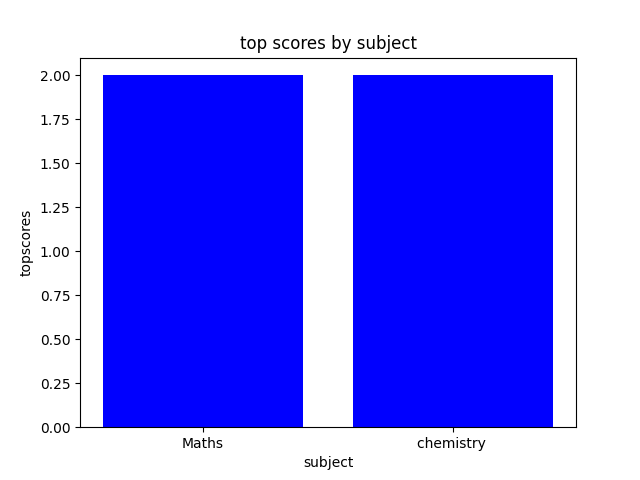
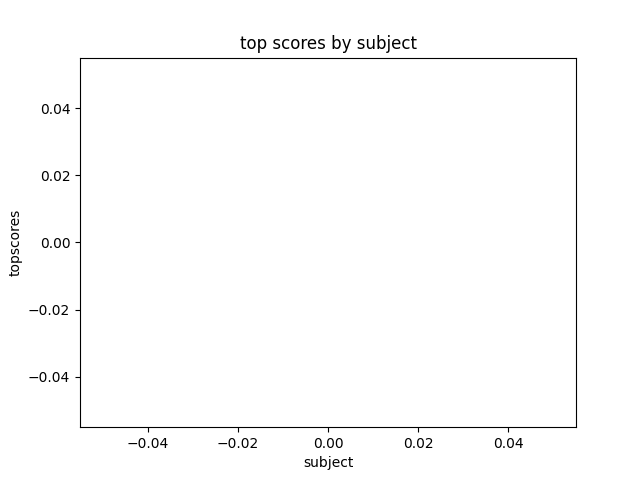
implemented full CRUD api for subject

diff --git a/templates/admin_dashbord.html b/templates/admin_dashbord.html
@@ -18,7 +18,7 @@
           <div class="collapse navbar-collapse" id="navbarNavAltMarkup">
             <div class="navbar-nav">
               <a class="nav-link active" aria-current="page" href="{{url_for('admin')}}">Home</a>
-              <a class="nav-link" href="{{url_for('get_quizzes')}}">Quiz</a>
+              <a class="nav-link" href="{{url_for('getquizzes')}}">Quiz</a>
               <a class="nav-link" href="{{url_for('summaryadmin')}}">Summary</a>
               <a class="nav-link" href="{{url_for('login')}}">logout</a>
               <a class="nav-link" href="{{url_for('get_subjects')}}">subjects</a>
@@ -39,7 +39,7 @@
   <div class="row">
     {% if subjects %}
       {% for subject in subjects %}
-        <div class="col-md-6 col-lg-4 mb-4">
+        <div class="col-md-6 col-lg-6 mb-4">
           <div class="card">
             <div class="card-body">
               <h5 class="text-center">
@@ -58,7 +58,7 @@
                   <thead>
                     <tr>
                       <th>Chapter</th>
-                      <th>No. of Questions</th>
+                      <th>No. of Quiz</th>
                       <th>Actions</th>
                     </tr>
                   </thead>
@@ -69,12 +69,12 @@
                       
                       <td>
                         
-                        <a href="{{ url_for('quizmanagement', chapter_id=chapter.id) }}">
+                        <a href="{{ url_for('quizmanagement', chapter_id=chapter.id) }}" style="color: red; font-weight:bold">
                           {{ chapter.name }}
                         
                         </a>
                       </td>
-                      <td>no of ques</td>
+                      <td style="padding-left: 45px;"> {{chapter.quizzes|length}} </td>
                       
                       <td>
                         <a href="{{ url_for('editchapter', chapter_id=chapter.id) }}">Edit</a> /
@@ -103,7 +103,7 @@
         </div>
       {% endfor %}
     {% else %}
-      <p class="text-center">No subjects</p>
+      <h1><p class="text-center">No subjects</p></h1>
     {% endif %}
   </div> 
 

diff --git a/templates/register.html b/templates/register.html
@@ -6,13 +6,14 @@
     <title>Document</title>
     <link rel="stylesheet" href="/static/style.css">
     <link href="https://cdn.jsdelivr.net/npm/bootstrap@5.3.3/dist/css/bootstrap.min.css" rel="stylesheet" integrity="sha384-QWTKZyjpPEjISv5WaRU9OFeRpok6YctnYmDr5pNlyT2bRjXh0JMhjY6hW+ALEwIH" crossorigin="anonymous">
-</head>
+
+  </head>
 <body>
     <div class="container">
         <div class="box">
           <div class="register_form">
             <h2 style="padding-bottom: 0px; text-align:center">Register</h2>
-            <form action="{{url_for('register')}}" method="post">
+            <form action="{{url_for('register')}}" method="post" >
               <div class="mb-3">
                 <label for="exampleInputEmail1" class="form-label" >Username</label>
                 <input type="email" class="form-control" id="exampleInputEmail1" aria-describedby="emailHelp" name = "Username" required>
@@ -32,9 +33,12 @@
               </div>
               <div style=  "text-align: center">
                 <input type="submit" class="btn btn-success" value="Register" style="text-align: center;">
-              <a href="{{url_for('login')}}">Go to login</a></div>
-            </form>
+              <a href="{{url_for('login')}}" class="btn btn-primary">Go to login</a>
+              <h3 style="text-align: center;" >{{msg}}</h3>   
+            </div>
 
+            </form>
+            
             
           </div>
         </div>

diff --git a/templates/login.html b/templates/login.html
@@ -9,7 +9,7 @@
 <script src="https://cdn.jsdelivr.net/npm/bootstrap@5.3.3/dist/js/bootstrap.bundle.min.js" integrity="sha384-YvpcrYf0tY3lHB60NNkmXc5s9fDVZLESaAA55NDzOxhy9GkcIdslK1eN7N6jIeHz" crossorigin="anonymous"></script>
 </head>
 <body>
-
+<h1 style="text-align: center;">WELCOME TO QUIZ MASTER</h1>
       <div class="container">
         <div class="box">
          
@@ -29,7 +29,7 @@
               
               <div style="text-align: center; padding:15px">
               <input type="submit" class="btn btn-success" value="Login" style="text-align: center;">
-              <a href="{{url_for('register')}}" class="btn-btn-primary">New user registration</a></div>
+              <a href="{{url_for('register')}}" class="btn btn-primary">New user registration</a></div>
                 <p style="text-align: center;">{{msg}}</p>   
             </form>
 

diff --git a/templates/quizmanagement.html b/templates/quizmanagement.html
@@ -37,11 +37,11 @@
                       {%endfor%}
                     </tbody>
                    
-                    <a  class="btn-btn-success" href = "{{url_for('addquiz',chapter_id = chapter.id)}}" >add quiz</a>
+                    <a  class="btn btn-primary" href = "{{url_for('addquiz',chapter_id = chapter.id)}}" >add quiz</a>
                   </table>
                 </div>
         {% endif %}  
 
-        <a href="{{url_for('admin')}}" class="btn-btn-primary">Back to admin dashboard</a>
+        <a href="{{url_for('admin')}}" class="btn btn-primary" style="text-align: center;">Back to admin dashboard</a>
 </body>
 </html>

diff --git a/templates/addsubject.html b/templates/addsubject.html
@@ -31,8 +31,8 @@
               
               <div style="text-align: center; padding:15px">
               <input type="submit" class="btn btn-success" value="Save" style="text-align: center;">
-              <input type="submit" class="btn btn-success" value="Cancel" style="text-align: center;">
-
+              <!-- <input type="submit" class="btn btn-success" value="Cancel" style="text-align: center;"> -->
+              <a href="{{url_for('admin')}}" class="btn btn-primary"> close </a> 
             </form>
           </div>
         </div>

diff --git a/templates/addquestion.html b/templates/addquestion.html
@@ -48,7 +48,7 @@
                
               <div style="text-align: center; padding:15px">
               <input type="submit" class="btn btn-success" value="Save" style="text-align: center;">
-              <input type="submit" class="btn btn-success" value="Cancel" style="text-align: center;">
+              <a href="{{url_for('questionmanagement', quiz_id = quiz.id)}}" class="btn btn-primary">close</a>
               </div>
             </form>
           </div>

diff --git a/templates/addquiz.html b/templates/addquiz.html
@@ -39,7 +39,7 @@
               
               <div style="text-align: center; padding:15px">
                 <input type="submit" class="btn btn-success" value="Save" style="text-align: center;">
-                <input type="submit" class="btn btn-success" value="Cancel" style="text-align: center;"></div>
+                <a href="{{url_for('admin')}}" class="btn btn-primary"> close </a></div>
                
             </form>
 

diff --git a/templates/addchapter.html b/templates/addchapter.html
@@ -25,7 +25,7 @@
               
               <div style="text-align: center; padding:15px">
               <input type="submit" class="btn btn-success" value="Save" style="text-align: center;">
-              <input type="submit" class="btn btn-success" value="Cancel" style="text-align: center;"></div>
+              <a href="{{url_for('admin')}}" class="btn btn-primary"> close </a> </div>
 
             </form>
           </div>

diff --git a/templates/questionmanagement.html b/templates/questionmanagement.html
@@ -33,6 +33,6 @@
             </tbody>
           </table>
           {%endif%}
-          <a href="{{url_for('quizmanagement', chapter_id = chapter.id)}}" class="btn-btn-primary" role="button">Back to quiz management</a>
+          <a href="{{url_for('quizmanagement', chapter_id = chapter.id)}}" class="btn btn-primary" role="button">Back to quiz management</a>
 </body>
 </html>

diff --git a/static/style.css b/static/style.css
@@ -26,7 +26,7 @@
 .register_form{
     border: 2px solid black;
     padding: 20px;
-    height: 455px;
+    height: 470px;
     width: 400px;
     margin: auto;
     padding-bottom: 0px;

diff --git a/application/controllers.py b/application/controllers.py
@@ -66,6 +66,15 @@ def admin():
     #return render_template("admin_dashbord.html", subjects = subjects, exit_user = exit_user)  
     return render_template("admin_dashbord.html", subjects = subjects)
 
+#@app.route("/api/subjects", methods = ['GET'])
+#def get_subjects():
+#    subjects = Subject.query.all()
+#    s_list = []
+#    for subject in subjects:
+#        s_list.append({"id": subject.id, "name": subject.name, "descrition": subject.description, "chapters":[chapter.name for chapter in subject.chapters]})
+#    return jsonify(s_list)
+#
+#
 @app.route("/api/subjects", methods = ['GET'])
 def get_subjects():
     subjects = Subject.query.all()
@@ -73,6 +82,8 @@ def get_subjects():
     for subject in subjects:
         s_list.append({"id": subject.id, "name": subject.name, "descrition": subject.description, "chapters":[chapter.name for chapter in subject.chapters]})
     return jsonify(s_list)
+
+
 
 # Go to userdashboard
 @app.route("/user_dashboard/<int:user_id>")
@@ -263,12 +274,12 @@ def deletequiz(quiz_id):
     
 # get quizzes
 @app.route("/api/quizzes/")
-def get_quizzes():
+def getquizzes():
     quizzes = Quiz.query.all()
-    q_list = []
+    qlist = []
     for quiz in quizzes:
-        q_list.append({"id":quiz.id, "name":quiz.name , "date": quiz.date_of_quiz, "timeduration": quiz.time_duration})
-    return jsonify(q_list)    
+        qlist.append({"id":quiz.id, "name":quiz.name , "date": quiz.date_of_quiz, "timeduration": quiz.time_duration})
+    return jsonify(qlist)    
 
 
 #Add question 
@@ -448,66 +459,3 @@ def summaryuser(user_id):
     plt.savefig("static/chart_user.png")
     return render_template("summary_user.html")
         
-
-
-
-
-
-
-
-
-
-
-
-
-
-
-
-
-
-
-
-
-
-
-
-
-
-
-
-
-
-
-
-
-
-
-
-
-
-
-
-
-
-#to show user quizzes
-
-
-
-
-    #return render_template("addquiz.html", )
-    #if request.method == 'GET':
-    #    quizzes = Quiz.query.filter_by(id = chapter_id).first()
-    #    chapter = Chapter.query.filter_by(id = chapter_id).first()
-    #    if quizzes:
-    #        return render_template("quizmanagement.html", quizzes = quizzes, chapter = chapter)
-        
-    
-    #elif request.method == 'POST':    
-    #    date = request.form['date']
-    #    duration = request.form['duration']
-    #    chapter = Chapter.query.filter_by(id = chapter_id).first()
-    #    new_quiz = Quiz(date_of_quiz  = date, time_duration = duration, chapter_id = chapter.id)
-    #    db.session.add(new_quiz)
-    #    db.session.commit()
-    #    return  render_template("quizmanagement.html", chapter = chapter)
-

diff --git a/application/api_controllers.py b/application/api_controllers.py
@@ -1,0 +1,46 @@
+from flask_restful import Resource, Api
+from flask import request
+
+from .models import *
+
+api = Api()
+
+class ShowAPi(Resource):
+    # GET /api/subjects returns all subjects with their chapters
+    
+    def get(self):
+        subjects = Subject.query.all() 
+        s_list = []
+        for subject in subjects:
+            s_list.append({"id": subject.id, "name": subject.name, "description": subject.description, "chapters":[chapter.name for chapter in subject.chapters]})
+        return (s_list)
+    
+
+    def post(self):
+        name = request.json.get('name')
+        description = request.json.get('description')
+        subject = Subject.query.filter_by(name = name).first()
+        if not subject:
+            new_subject=  Subject(name = name, description = description)
+            db.session.add(new_subject)
+            db.session.commit()
+            return {"message":"Subject added succesfully"}, 201
+        return {"message":"subject already exist"}
+
+    def put (self, id):
+        subject =Subject.query.filter_by(id = id).first()
+        if subject:
+            subject.name = request.json.get('name')
+            subject.description = request.json.get('description')
+            db.session.commit()
+            return {"message": "subject updated successfully"} ,200
+        return {"message":"SUbject does not exist. First add then do edit"}, 404
+    
+    def delete(self, id):
+        subject = Subject.query.filter_by(id = id).first()
+        db.session.delete(subject)
+        db.session.commit()
+        return {"message": "Subject deleted successfully"}, 200
+        
+    
+api.add_resource(ShowAPi, "/api/view_subjects", "/api/add_subjects", "/api/put_subjects/<int:id>", "/api/deletesubject/<int:id>")
